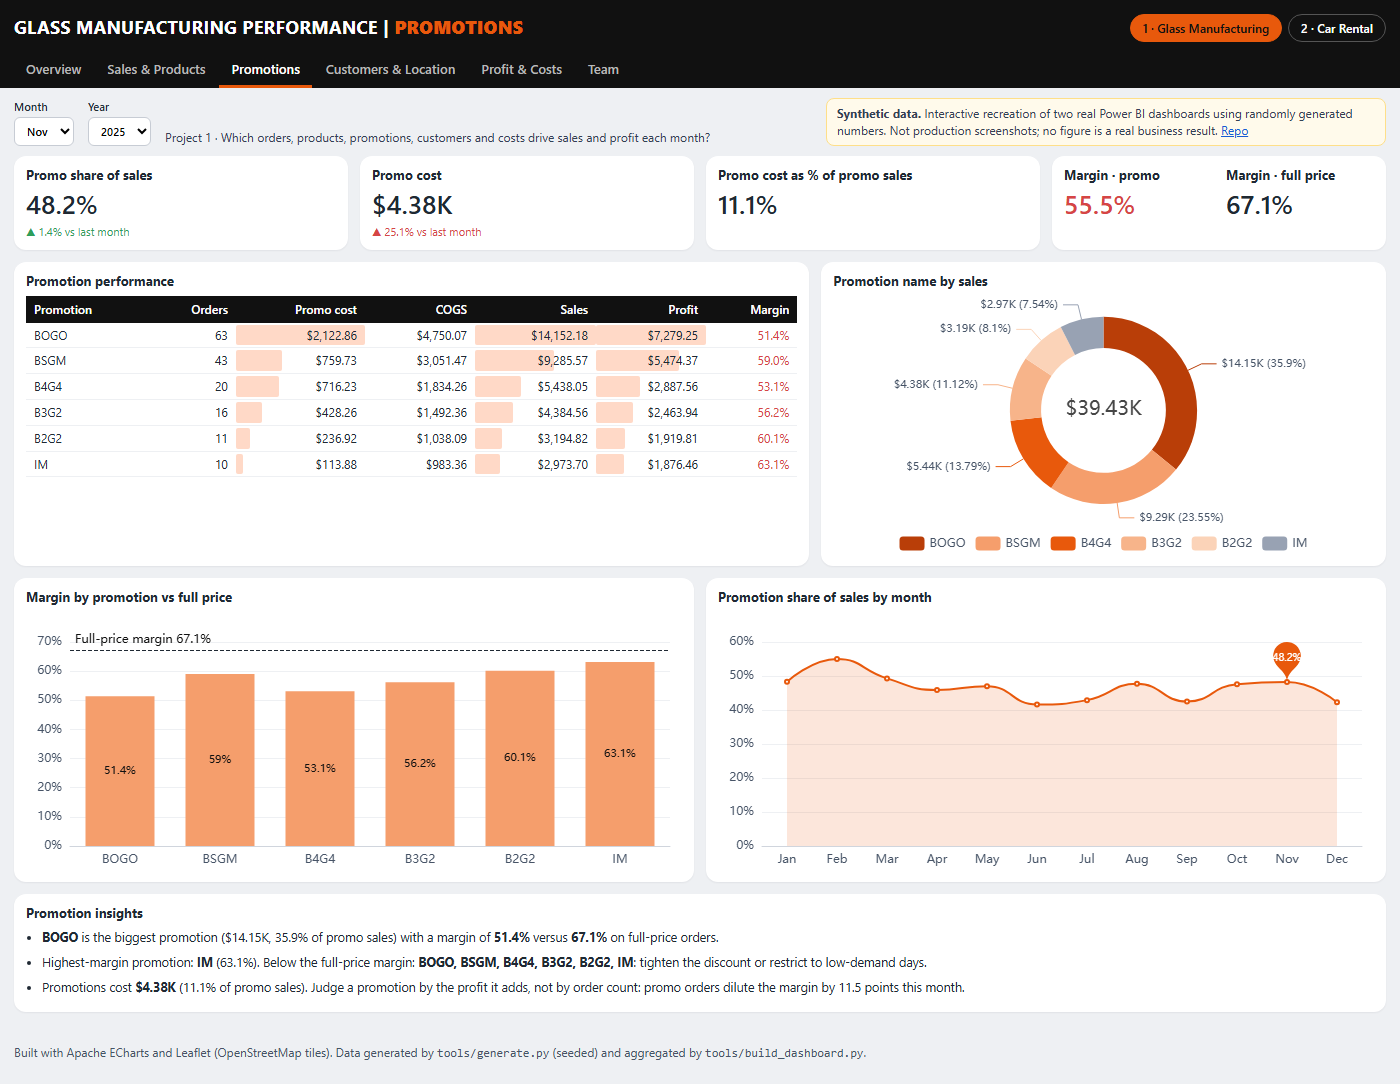
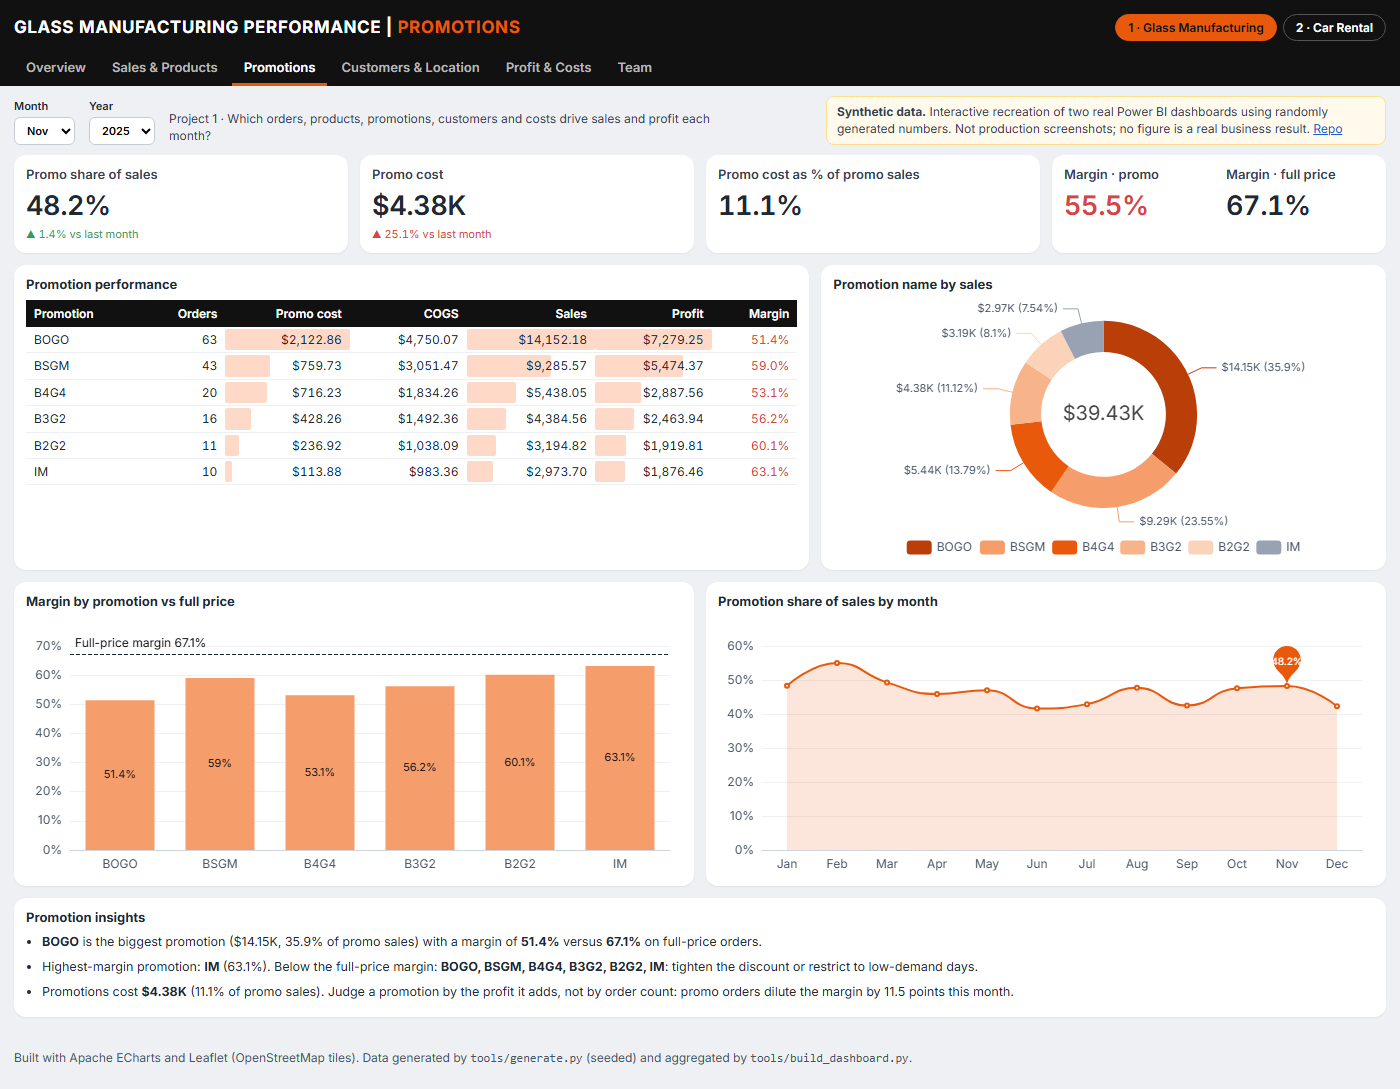
Switch dashboard font to Inter (tabular numbers, chart text included); refresh screenshots

diff --git a/docs/index.html b/docs/index.html
@@ -5,22 +5,27 @@
 <meta name="viewport" content="width=device-width, initial-scale=1">
 <title>Hong Nga · Power BI Dashboard Portfolio</title>
 <meta name="description" content="Interactive recreations of two Power BI dashboards (glass manufacturing performance and car rental overview) built on synthetic data.">
+<link rel="preconnect" href="https://fonts.googleapis.com">
+<link rel="preconnect" href="https://fonts.gstatic.com" crossorigin>
+<link rel="stylesheet" href="https://fonts.googleapis.com/css2?family=Inter:wght@400;500;600;700&display=swap">
 <link rel="stylesheet" href="https://cdnjs.cloudflare.com/ajax/libs/leaflet/1.9.4/leaflet.min.css">
 <style>
   /* Color system: one accent per project, neutral greys, green/red only for good/bad */
   :root{--ink:#1f2933;--muted:#667085;--line:#e4e7ec;--card:#fff;--accent:#e8590c;--page:#eef0f3;--good:#2e9e5b;--bad:#d64545}
   body.t-fleet{--accent:#c9a0dc}
   *{box-sizing:border-box}
-  body{margin:0;min-height:100vh;background:var(--page);color:var(--ink);font:13px/1.4 "Segoe UI",system-ui,-apple-system,Roboto,sans-serif}
+  body{margin:0;min-height:100vh;background:var(--page);color:var(--ink);font-family:"Inter","Segoe UI",system-ui,-apple-system,Roboto,sans-serif;font-size:13px;line-height:1.45;font-feature-settings:"cv11","ss01";-webkit-font-smoothing:antialiased}
+  button,select,input{font-family:inherit}
+  .kpi .v,td,th,.d{font-variant-numeric:tabular-nums}
   .top{background:#111;color:#fff;padding:14px 14px 0}
   .row1{display:flex;flex-wrap:wrap;gap:10px;align-items:center;justify-content:space-between}
-  .top h1{margin:0;font-size:18px;letter-spacing:.3px;font-weight:700}
+  .top h1{margin:0;font-size:17px;letter-spacing:.6px;font-weight:700}
   .top h1 b{color:var(--accent)}
   .proj{display:flex;gap:6px;flex-wrap:wrap}
-  .proj button{background:transparent;color:#fff;border:1px solid #555;border-radius:999px;padding:5px 12px;font:600 12px "Segoe UI",system-ui,sans-serif;cursor:pointer}
+  .proj button{background:transparent;color:#fff;border:1px solid #555;border-radius:999px;padding:5px 12px;font-weight:600;font-size:12px;cursor:pointer}
   .proj button[aria-selected="true"]{background:var(--accent);border-color:var(--accent);color:#111}
   .tabs{display:flex;gap:2px;flex-wrap:wrap;margin-top:10px}
-  .tabs button{background:transparent;color:#b8b8b8;border:0;border-bottom:3px solid transparent;padding:8px 12px;font:600 13px "Segoe UI",system-ui,sans-serif;cursor:pointer}
+  .tabs button{background:transparent;color:#b8b8b8;border:0;border-bottom:3px solid transparent;padding:8px 12px;font-weight:600;font-size:13px;cursor:pointer}
   .tabs button[aria-selected="true"]{color:#fff;border-bottom-color:var(--accent)}
   .bar{display:flex;flex-wrap:wrap;gap:14px;align-items:end;justify-content:space-between;padding:10px 14px}
   .bar .f{display:flex;gap:14px;align-items:end;flex-wrap:wrap}
@@ -34,7 +39,7 @@
   .card h2{margin:0 0 6px;font-size:13px;font-weight:700}
   .c2{grid-column:span 2}.c3{grid-column:span 3}.c4{grid-column:span 4}.c5{grid-column:span 5}.c6{grid-column:span 6}.c7{grid-column:span 7}.c8{grid-column:span 8}.c12{grid-column:span 12}
   .ch{height:260px}.ch.t{height:320px}.map{height:420px;border-radius:8px}
-  .kpi .l{font-weight:700;margin-bottom:2px}.kpi .v{font-size:26px;font-weight:500}
+  .kpi .l{font-weight:600;color:#344054;margin-bottom:2px}.kpi .v{font-size:27px;font-weight:600;letter-spacing:-.4px}
   .kpi .d{font-size:11px;margin-top:2px}.up{color:var(--good)}.down{color:var(--bad)}
   .kpi svg{display:block;width:100%;height:42px;margin-top:4px}
   .kpi.two{display:flex;gap:14px}.kpi.two>div{flex:1}
@@ -244,7 +249,8 @@ function dayArr(o,m){var r=[];for(var d=1;d<=dim(m);d++)r.push(o[dk(m,d)]||0);re
 function add(o,k,v){o[k]=(o[k]||0)+v;}
 var charts={};
 function ch(id){if(!window.echarts)return null;var el=$(id);if(!charts[id]||charts[id].getDom()!==el){if(charts[id])charts[id].dispose();charts[id]=echarts.init(el);}return charts[id];}
-function opt(id,o){var c=ch(id);if(c)c.setOption(o,true);}
+var FONT='Inter,"Segoe UI",system-ui,sans-serif';
+function opt(id,o){var c=ch(id);if(c){o.textStyle=Object.assign({fontFamily:FONT},o.textStyle||{});c.setOption(o,true);}}
 var AX={axisLine:{lineStyle:{color:"#d0d5dd"}},axisLabel:{color:"#475467"},axisTick:{show:false}};
 function xcat(c){return {type:"category",data:c,axisLine:AX.axisLine,axisLabel:AX.axisLabel,axisTick:AX.axisTick};}
 function yval(f){return {type:"value",splitLine:{lineStyle:{color:"#eef0f3"}},axisLabel:{color:"#475467",formatter:f||kk}};}

diff --git a/docs/mfg.js b/docs/mfg.js
@@ -57,7 +57,7 @@ function over(m){
     kpi(3,"Profit · margin "+pc(c.S?c.P/c.S:0),'<span class="'+(c.P>=0?"up":"down")+'">'+usd(c.P)+"</span>",p?dlt(c.P,p.P):null,true,c.p,ACC)+
     kpi(3,"Sales",usd(c.S),p?dlt(c.S,p.S):null,true,c.s,ACC)+
     kpi(3,"Total expenses",usd(c.E),p?dlt(c.E,p.E):null,false,c.e,T.muted)+
-    kpi(3,"Orders · "+c.U+" units ("+q1+" Premium / "+q2+" Luxury orders)",c.R,p?dlt(c.R,p.R):null,true,c.n,ACC);
+    kpi(3,"Orders · "+c.U+" units sold",c.R,p?dlt(c.R,p.R):null,true,c.n,ACC);
   opt("s-salesexp",{tooltip:{trigger:"axis",valueFormatter:f2},legend:{top:0},color:[ACC,INK],grid:GR,xAxis:xcat(dd),yAxis:yval(),
     series:[{name:"Sales",type:"bar",stack:"x",data:c.s.map(Math.round)},{name:"Total expenses",type:"bar",stack:"x",data:c.e.map(Math.round)}]});
   opt("s-profitline",areaLine(c,dd));
